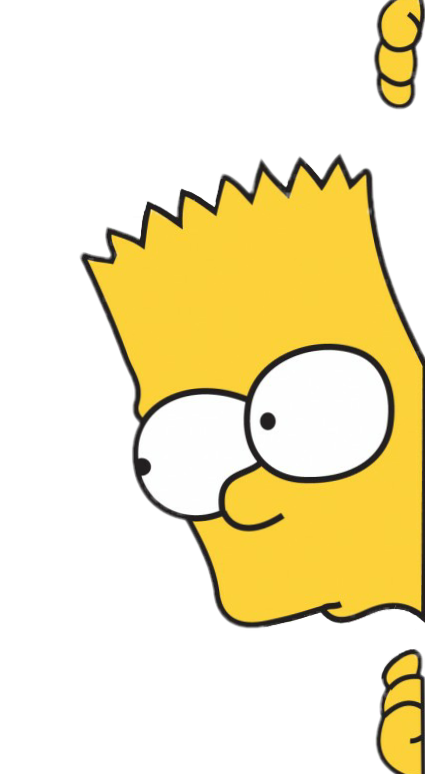
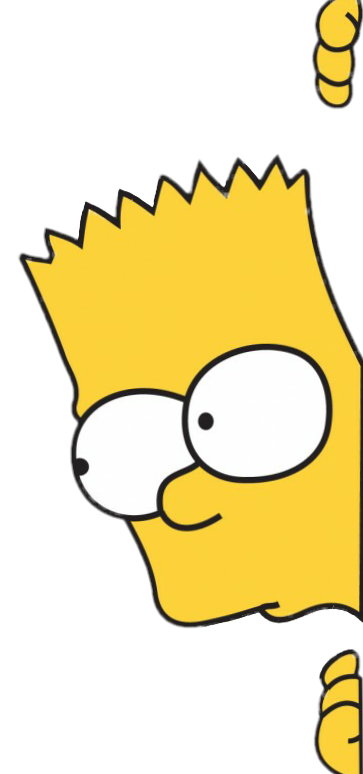
style(Gallery): display wall pictures on responsive Gallery page

Changed region(s): [[0.0303, 0.186, 1.0, 0.8372], [0.8485, 0.8372, 1.0, 1.0], [0.8485, 0.0, 1.0, 0.155]]

diff --git a/src/index.css b/src/index.css
@@ -19,12 +19,12 @@
     /* Estilos para la barra de scroll completa */
     ::-webkit-scrollbar {
       width: 8px; /* Ancho de la barra de scroll */
-      background-color: #f5f5f5; /* Color de fondo de la barra */
+      background-color: #3490dc; /* Color de fondo de la barra */
     }
 
     /* Estilos para el "thumb" (parte que se desplaza) */
     ::-webkit-scrollbar-thumb {
-      background-color: #3490dc; /* Color del "thumb" */
+      background-color: #f5f5f5; /* Color del "thumb" */
       border-radius: 10px; /* Esquinas redondeadas */
     }
 

diff --git a/src/pages/Gallery.jsx b/src/pages/Gallery.jsx
@@ -103,7 +103,7 @@ const Gallery = () => {
               key={initialImage.id}
               src={initialImage.image}
               alt={`Cuadro Inicial ${initialImage.id}`}
-              className={`absolute object-contain cursor-pointer transition-transform duration-300 max-lg:hidden ${
+              className={`absolute object-contain cursor-pointer transition-transform duration-300 ${
                 initialImage.id === '9' ? '' : 'hover:brightness-110 hover:scale-105'
               }`}
               style={{

diff --git a/src/layout/Layout.jsx b/src/layout/Layout.jsx
@@ -15,7 +15,7 @@ const Layout = () => {
           <main className='grid col-span-3 ml-8 max-xs:flex max-xs:mx-8'>
             <Outlet />
           </main>
-          <div className='max-xs:hidden'>
+          <div className='max-xs:hidden ml-8'>
             <img src="/src/assets/images/curious-bart.png" alt="Bart asomado" className='w-full sticky top-[10vh]'/>
           </div>
         </div>
